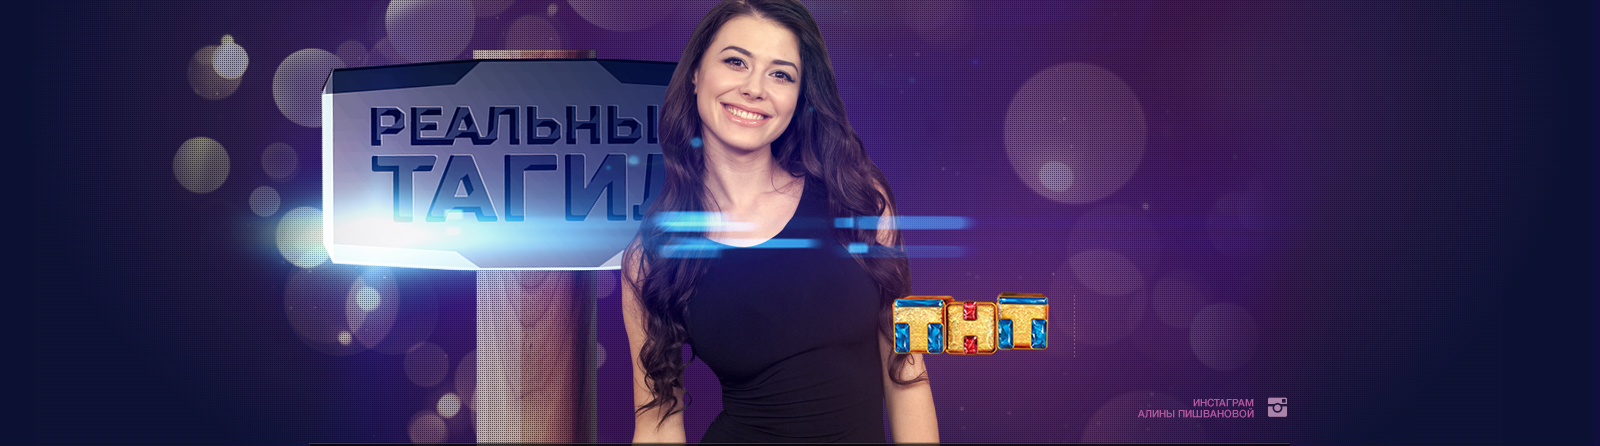
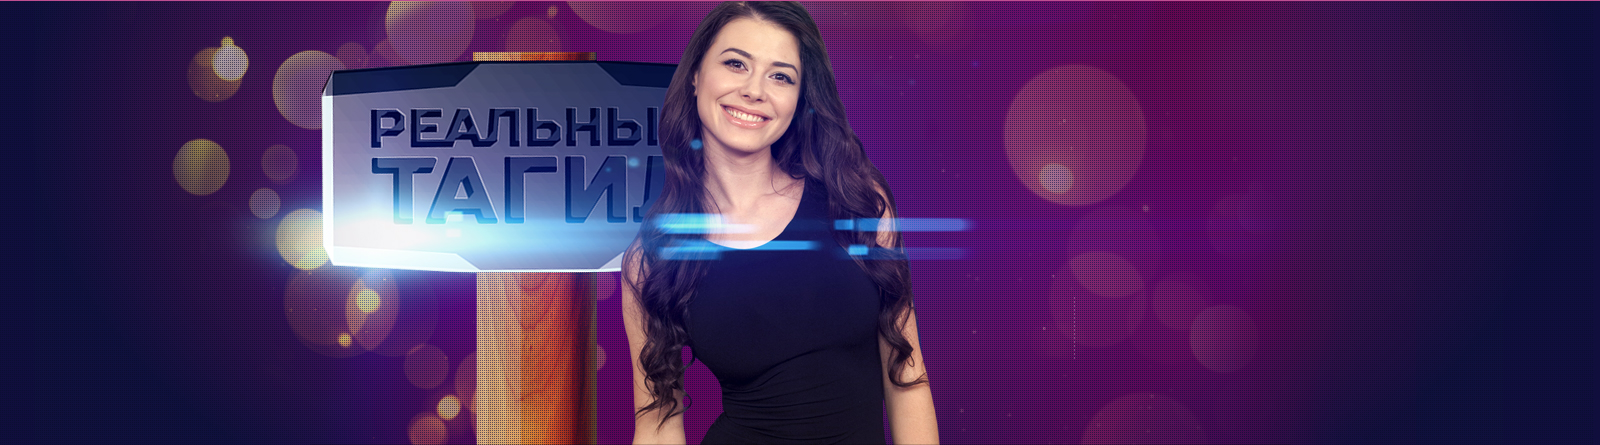
dad

diff --git a/index.html b/index.html
@@ -36,8 +36,8 @@
     </header>
     
     <div id="mainphoto">
-    
-        <div>
+       <div class="mrg">
+        <div class="nn">
             <h1>
                 ПРЕДЛОЖИ СЮЖЕТ 
 +7 (3435) 344-209
@@ -51,9 +51,10 @@ INFO@REALTV.RU
             <h3>
                 ДЛЯ ЕКАТЕРИНБУРГА НА “КРИК-ТВ” В 21:00 И 8:00
             </h3>
-            <!-- <img src="image/tnt.jpg" alt="tnt" class='tnt'> -->
+            <img src="image/tnt.png" alt="tnt" class='tnt'> 
         </div>
-    </div>
+        </div>
+        </div>
     
     <!--- start menu ---->
     

diff --git a/css/style.css b/css/style.css
@@ -105,19 +105,34 @@ nav
     background-position: center;
     background-repeat: no-repeat;
     
-    width: 100%;
+    width:100%;
     height: 573px;
     
 }
-#mainphoto div
+
+#mainphoto .nn
 {
     width:405px ;
     height: 287px;
    
     float: right;
-    margin-right: 140px;
+    margin-right: -8px;
     margin-top: 158px;
         
+}
+#mainphoto div h3
+{
+    display: inline-block;
+}
+#mainphoto div img
+{
+    margin-top: -63px;
+}
+.mrg
+{
+    width: 948px;
+    margin-left: auto;
+    margin-right: auto;
 }
 h1
 {
